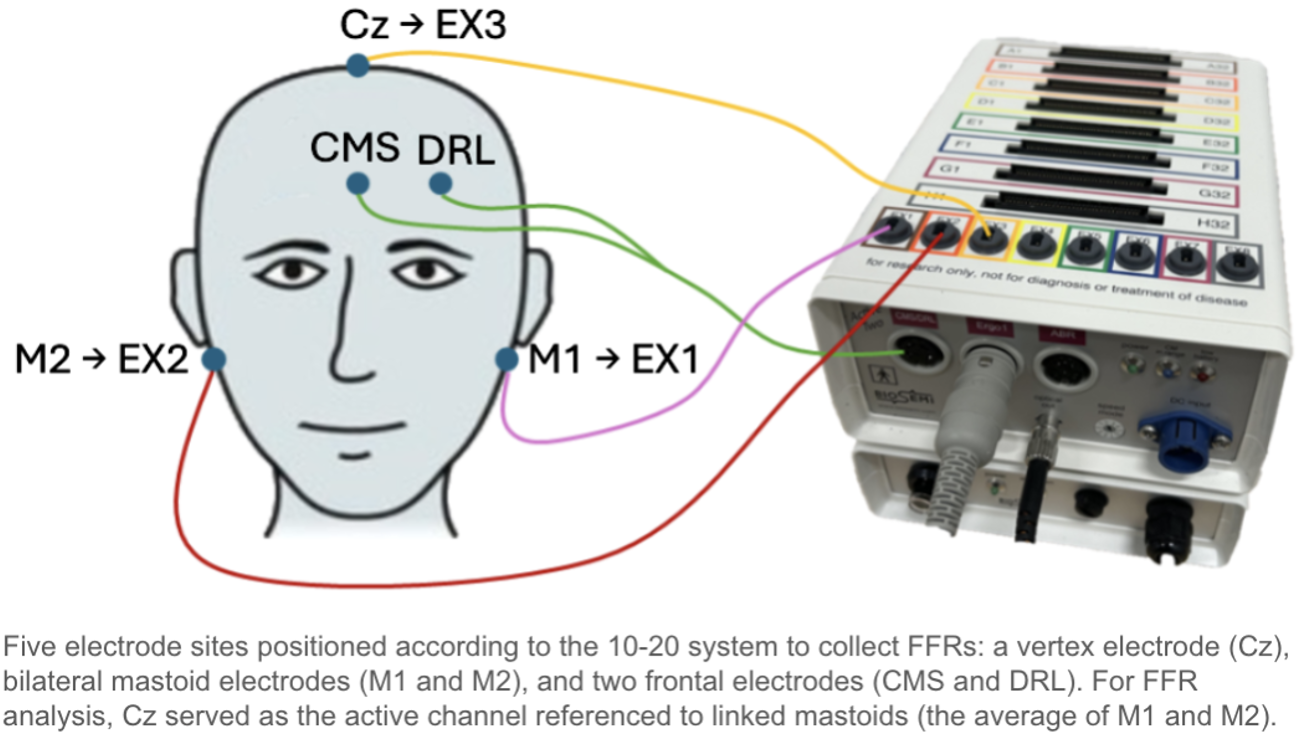
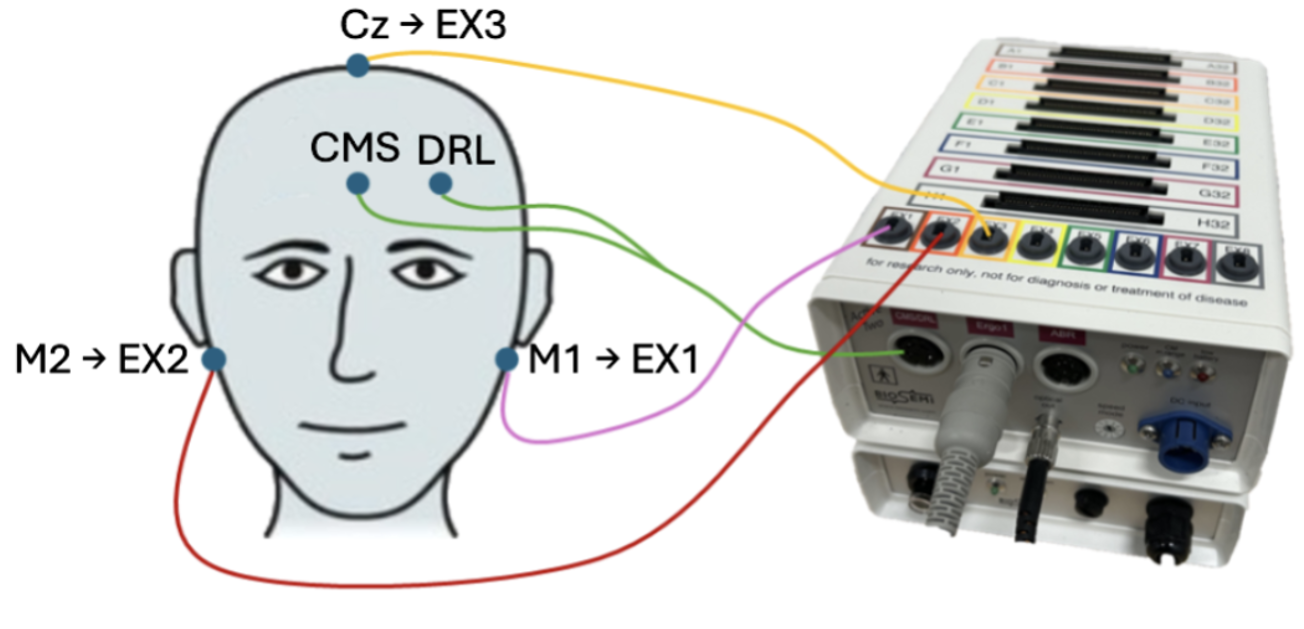
Updated auditory motor slides

diff --git a/docs/talk/talk.html b/docs/talk/talk.html
@@ -12,7 +12,7 @@
   <meta name="generator" content="quarto-1.8.22">
 
   <meta name="author" content="Kevin R. Sitek, Ph.D.">
-  <meta name="dcterms.date" content="2025-10-06">
+  <meta name="dcterms.date" content="2025-10-31">
   <title>Imaging the human auditory system</title>
   <meta name="apple-mobile-web-app-capable" content="yes">
   <meta name="apple-mobile-web-app-status-bar-style" content="black-translucent">
@@ -146,7 +146,7 @@ Kevin R. Sitek, Ph.D.
     </div>
 </div>
 
-  <p class="date">2025-10-06</p>
+  <p class="date">2025-10-31</p>
 </section>
 <section>
 <section id="the-human-auditory-system" class="title-slide slide level1 center">
@@ -938,6 +938,7 @@ Kevin R. Sitek, Ph.D.
 <p><img data-src="images/people/MichelleMedina.jpeg" class="absolute" style="bottom: 10px; right: 10px; width: 200px; height: 200px; "></p>
 <div class="columns">
 <div class="column fragment">
+<h4 id="multi-echo-requires-less-scan-time-to-identify-auditory-thalamus-and-brainstem">Multi-echo requires less scan time to identify auditory thalamus and brainstem</h4>
 <div class="quarto-figure quarto-figure-center">
 <figure>
 <p><img data-src="images/Medina2025/Medina_Figure4b.png" class="quarto-figure quarto-figure-center"></p>
@@ -993,7 +994,7 @@ Kevin R. Sitek, Ph.D.
 </div>
 </div></div>
 <aside class="notes">
-<p>Moser et al.&nbsp;(2025): https://doi.org/10.1162/imag_a_00426</p>
+<p>Moser et al.&nbsp;(2025): https://doi.org/10.1162/imag_a_00426 “The sample consists of one adult (PA001) and two children (PC001 and PC002; age 10) enrolled at the University of Minnesota (UMN), and one adult (PA002) and three healthy neonates enrolled at Washington University in St.&nbsp;Louis (WashU), ages 28 days (43 weeks postmenstrual age (wPMA); PB004), 12 days (41 wPMA; PB005), and 13 days (41 wPMA; PB001)”</p>
 <style type="text/css">
         span.MJX_Assistive_MathML {
           position:absolute!important;
@@ -1132,24 +1133,31 @@ Kevin R. Sitek, Ph.D.
 <h2><em>Where</em> are motor signals integrated? Subcortically?</h2>
 <p><img data-src="images/people/GabbyButler.jpeg" class="absolute" style="bottom: 10px; right: 10px; width: 200px; height: 200px; "></p>
 <h4 id="the-scalp-recorded-frequency-following-response-ffr-shows-the-fidelity-of-incoming-sound-encoding">The scalp-recorded frequency-following response (FFR) shows the fidelity of incoming sound encoding</h4>
-<div class="columns">
-<div class="column fragment">
+<div class="quarto-layout-panel" data-layout="[60,40]">
+<div class="quarto-layout-row">
+<div class="column fragment quarto-layout-cell" style="flex-basis: 60.0%;justify-content: flex-start;">
 <ul>
 <li>If integration is subcortical, would expect to see FFR differences between self-generated vs.&nbsp;passive sound</li>
-<li>Collected FFR from 33 normal-hearing adults in <em>active</em> (button-press + sound) and <em>passive</em> (sound only) conditions</li>
+<li>Recorded FFRs to /da/ stimulus (alternating polarity)
+<ul>
+<li><em>Active</em> condition: press a button to generate a sound</li>
+<li><em>Passive</em> condion: passive presentation of the sound</li>
+</ul></li>
+<li>Collected data from 33 normal-hearing adults while they watched a silent captioned TV show</li>
 </ul>
-</div><div class="column fragment">
-<div class="quarto-figure quarto-figure-center">
+</div><div class="column fragment quarto-layout-cell" style="flex-basis: 40.0%;justify-content: center;">
+<div class="quarto-figure quarto-figure-left">
 <figure>
-<p><img data-src="images/Butler_etal_2025/Butler_EEG.png" class="quarto-figure quarto-figure-center" height="300"></p>
+<p><img data-src="images/Butler_etal_2025/Butler_EEG.png" class="quarto-figure quarto-figure-left"></p>
 </figure>
 </div>
-<div class="quarto-figure quarto-figure-center">
+<div class="quarto-figure quarto-figure-left">
 <figure>
-<p><img data-src="images/Butler_etal_2025/Butler_stimulus.png" class="quarto-figure quarto-figure-center" height="300"></p>
+<p><img data-src="images/Butler_etal_2025/Butler_stimulus.png" class="quarto-figure quarto-figure-left" height="250"></p>
 </figure>
 </div>
 </div></div>
+</div>
 
 <aside class="notes">
 <p>If integration is subcortical, would expect to see FFR differences between self-generated vs.&nbsp;passive sound</p>
